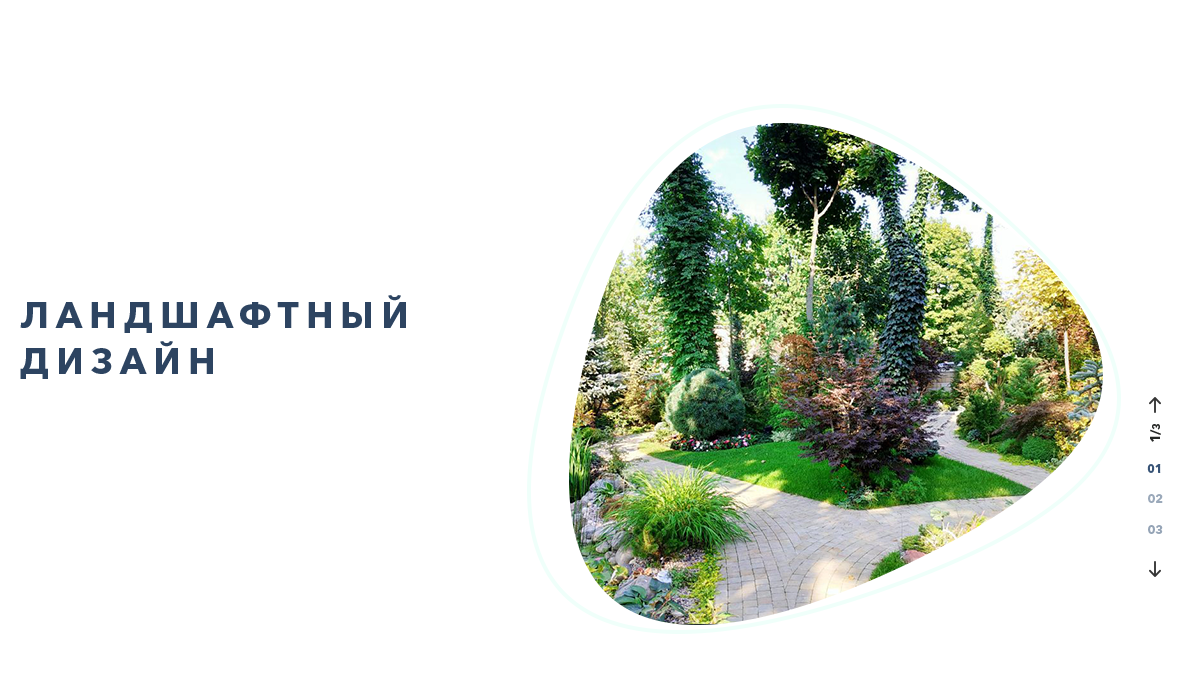
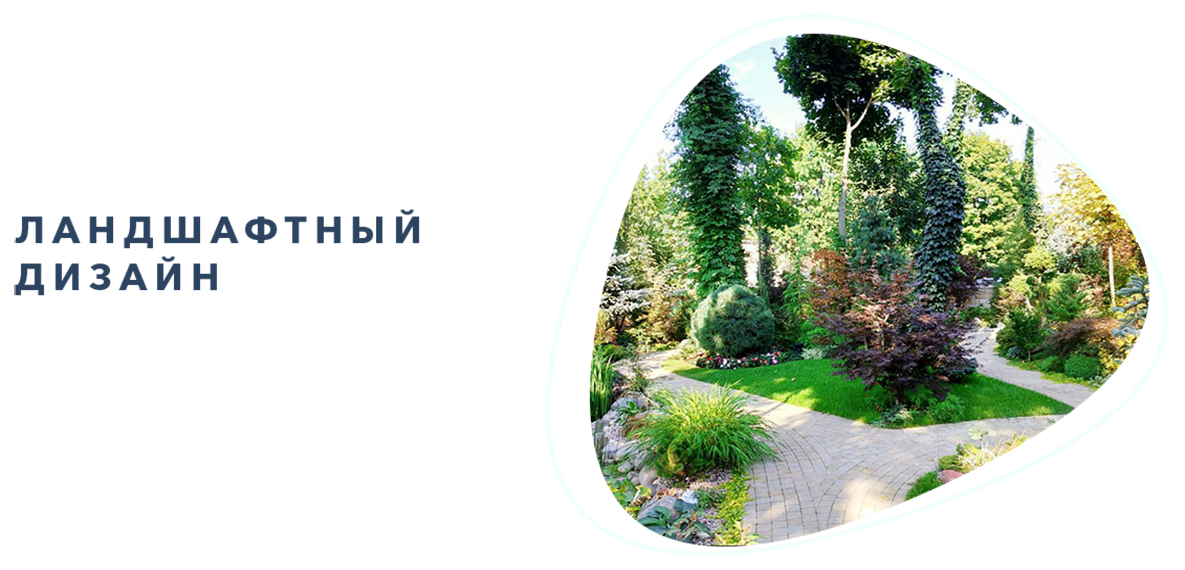
Работа над дизайном, слайдер кнопка инсты, шрифты

Changed region(s): [[0.4569, 0.0596, 1.0, 0.9842], [0.0, 0.3579, 0.3655, 0.5368], [0.9746, 0.7456, 1.0, 0.7754]]

diff --git a/templates/base.html b/templates/base.html
@@ -47,11 +47,11 @@
    
         
             <div class="row">
-                <div class="col-xl-4">
-                    <div class='header__title'>Олег Мицкевич</div>
+                <div class="col-xl-4 mick">
+                    <div class='header__title'>ОЛЕГ МИЦКЕВИЧ</div>
 
-                    <div class='header__title1'>декоративные  водоемы</div>
-                    <p class='header__text'> от идеи до воплощения</p>
+                    <div class='header__title1'>ландшафтный дизайн</div>
+                    <p class='header__text'>от идеи до воплощения</p>
                     <button type="button" class="btn btn-primary" data-toggle="modal" data-target="#staticBackdrop">
                         оставить сообщение
                         <!--слайдер -->
@@ -171,14 +171,7 @@
       <img class="d-block w-100"  src="{{ url_for("static", filename="images/sl2.png") }}"       alt="Третий слайд">
     </div>
   </div>
-  <a class="carousel-control-prev" href="#carouselExampleIndicators" role="button" data-slide="prev">
-    <span class="carousel-control-prev-icon" aria-hidden="true"></span>
-    <span class="sr-only">Previous</span>
-  </a>
-  <a class="carousel-control-next" href="#carouselExampleIndicators" role="button" data-slide="next">
-    <span class="carousel-control-next-icon" aria-hidden="true"></span>
-    <span class="sr-only">Next</span>
-  </a>
+ 
 </div>
                </div>
             </div>
@@ -203,9 +196,11 @@
                         Оставить сообщение
                         <!--слайдер -->
                     </button>
-
-            </div>
-        
+            
+        <br/><br/>
+        <div class="justify-content-between">
+        <a href="https://www.instagram.com/"><img src="{{ url_for("static", filename="images/insta-logo1.png") }}" alt="" ></a></div>
+        </div>
         
         <div class="col-xl-6">
              <img src="{{ url_for("static", filename="images/kont.png") }}" width="450" height="311"  alt="">
@@ -219,7 +214,7 @@
 <div class="row">
  
     <div class="col-xl-3 justify-content-between">
-        <img src="{{ url_for("static", filename="images/logo.png") }}" alt="" class='logo'></div>
+        <img src="{{ url_for("static", filename="images/logo.png") }}" alt="" class='logo'/></div>
         <div class="col-xl-9 mx-auto">2020 ИП Мицкевич Ю.Р.
 УНП 391735437</div>
 

diff --git a/templates/index.html b/templates/index.html
@@ -13,21 +13,25 @@
 <section class="about" id="part1">
     <div class="container">
                  <div class="row">
+
                     <div class="col-xl-4">
-                     <img src="{{ url_for("static", filename="images/i-1.png") }}" alt="">
-                     <h3>Озеленение</h3>
-                     <p>подчеркивает индивидуальные особенности сада. Одиночные деревья</p>
-                 </div>
-                 <div class="col-xl-4">
-                     <img src="{{ url_for("static", filename="images/i-2.png") }}" alt="">
-                     <h3>Декоративные</h3>
-                     <p>водоемы,водопады,ручейки радуют глаз и умиротворяют душу. А вот</p>
-                 </div>
-                 <div class="col-xl-4">
                      <img src="" alt="">
                      <h3>5 причин почему</h3>
                      <p>Давайте знакомиться.<br/> Меня зовут Олег Мицкевич. Я – ландшафтный дизайнер. Моя работа <br/> Один звонок – и все задуманное исполнится</p>
                  </div>
+
+                    <div class="col-xl-4">
+                     <img src="{{ url_for("static", filename="images/i-2.png") }}" alt="">
+                     <h3>Декоративные</h3>
+                     <p>водоемы,водопады,ручейки радуют глаз и умиротворяют душу. А вот</p>
+                 </div>
+                 
+                 <div class="col-xl-4">
+                     <img src="{{ url_for("static", filename="images/i-1.png") }}" alt="">
+                     <h3>Озеленение</h3>
+                     <p>подчеркивает индивидуальные особенности сада. Одиночные деревья</p>
+                 </div>
+
              </div>
                  <div class="row">
                     

diff --git a/static/css/style.css b/static/css/style.css
@@ -9,7 +9,7 @@ z-index: 0;
 .banner{
 background-image: url('../images/f1.png');
 background-repeat: no-repeat;
-background-size: contain; /* Масштабируем фон */
+background-size:  100% 95% ; /* Масштабируем фон */
 z-index: 5;
 	
 }
@@ -18,6 +18,12 @@ ul, li {
 	display: block;
 	padding: 0;
 	margin: 0;
+}
+
+.mick{
+	
+	padding: 20px 10px;
+	
 }
 
 .menu-bar{
@@ -46,11 +52,12 @@ color: #252726; /* цвет текса в меню в теги а */
 	font-size: 34px;
 	color: #feffff;
 	padding: 0px 10px 5px; 
+	text-transform: uppercase;
 }
 
 .header__title1{
 	font-family:'AvenirNextCyr Demi';
-	font-size: 30px;
+	font-size: 26px;
 	text-transform: uppercase;
 	color: #2d4461;
 	padding: 0px 10px 0px; 
@@ -58,9 +65,10 @@ color: #252726; /* цвет текса в меню в теги а */
 
 .header__text{
 	font-family:'AvenirNextCyr Demi';
-	font-size: 14px;
+	font-size: 20px;
 	text-transform: uppercase;
 	color: #375376;
+
 	padding: 0px 5px 0px; 
 }
 
@@ -148,6 +156,8 @@ padding: 50px ;
 .text__svyaz{
 	color: #375376;
 }
+}
+
 
 /* Contact form */
 form label {
